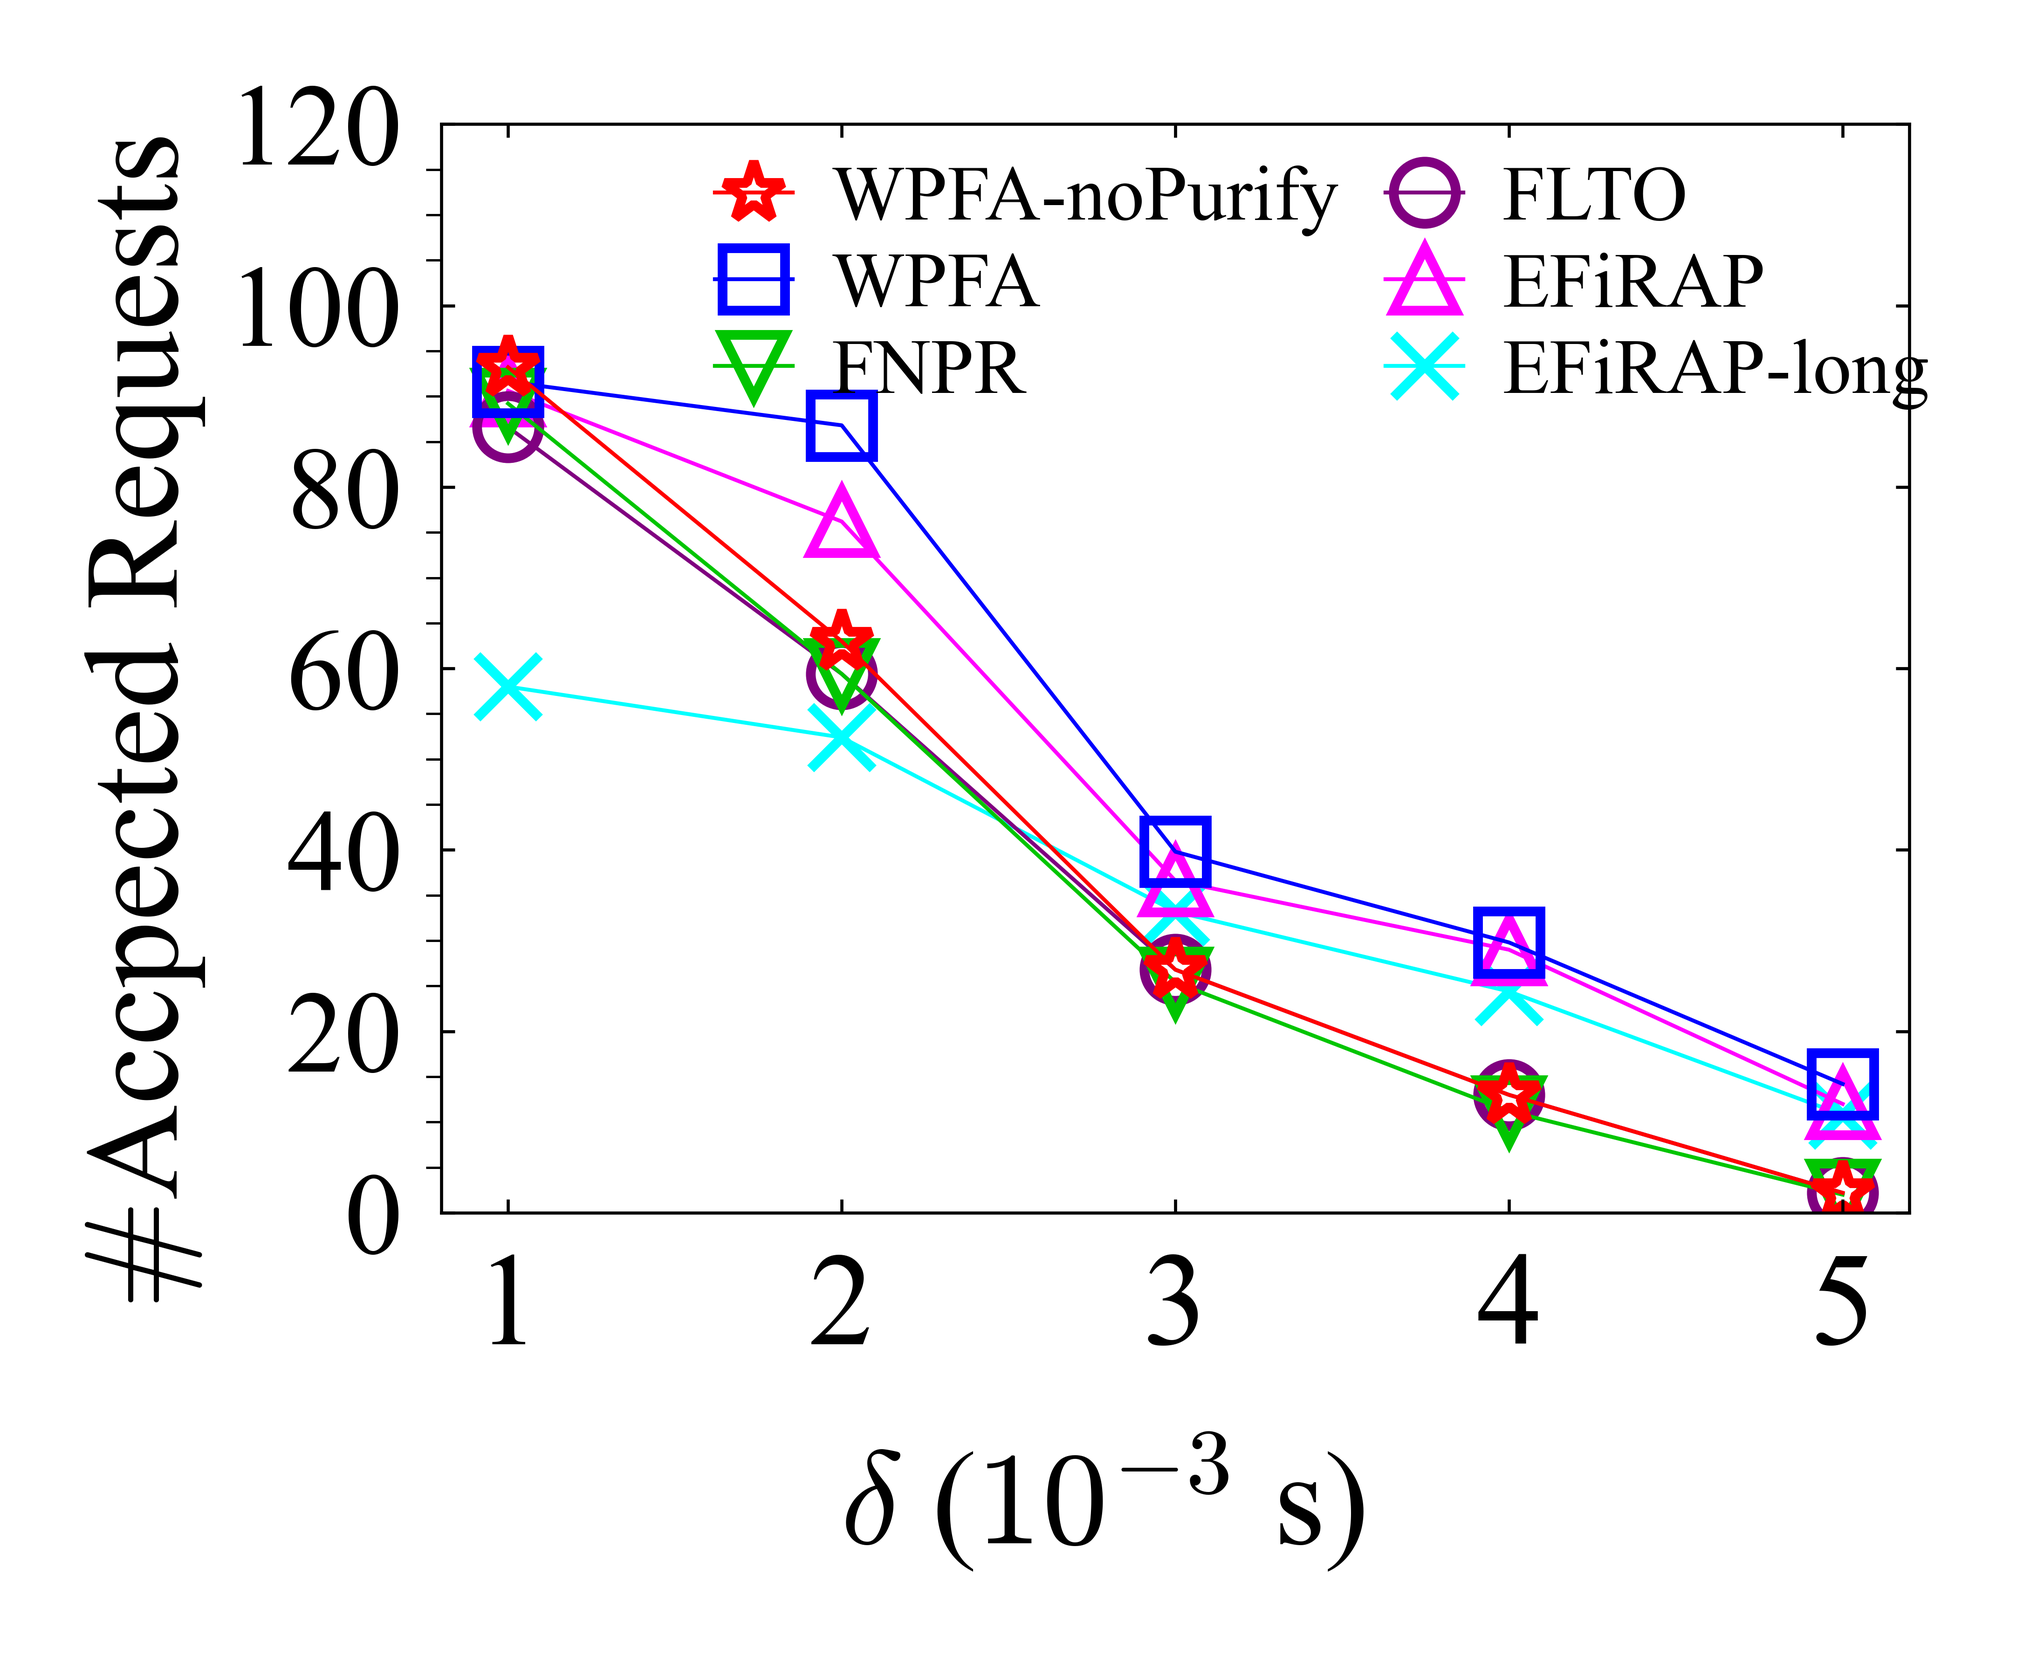
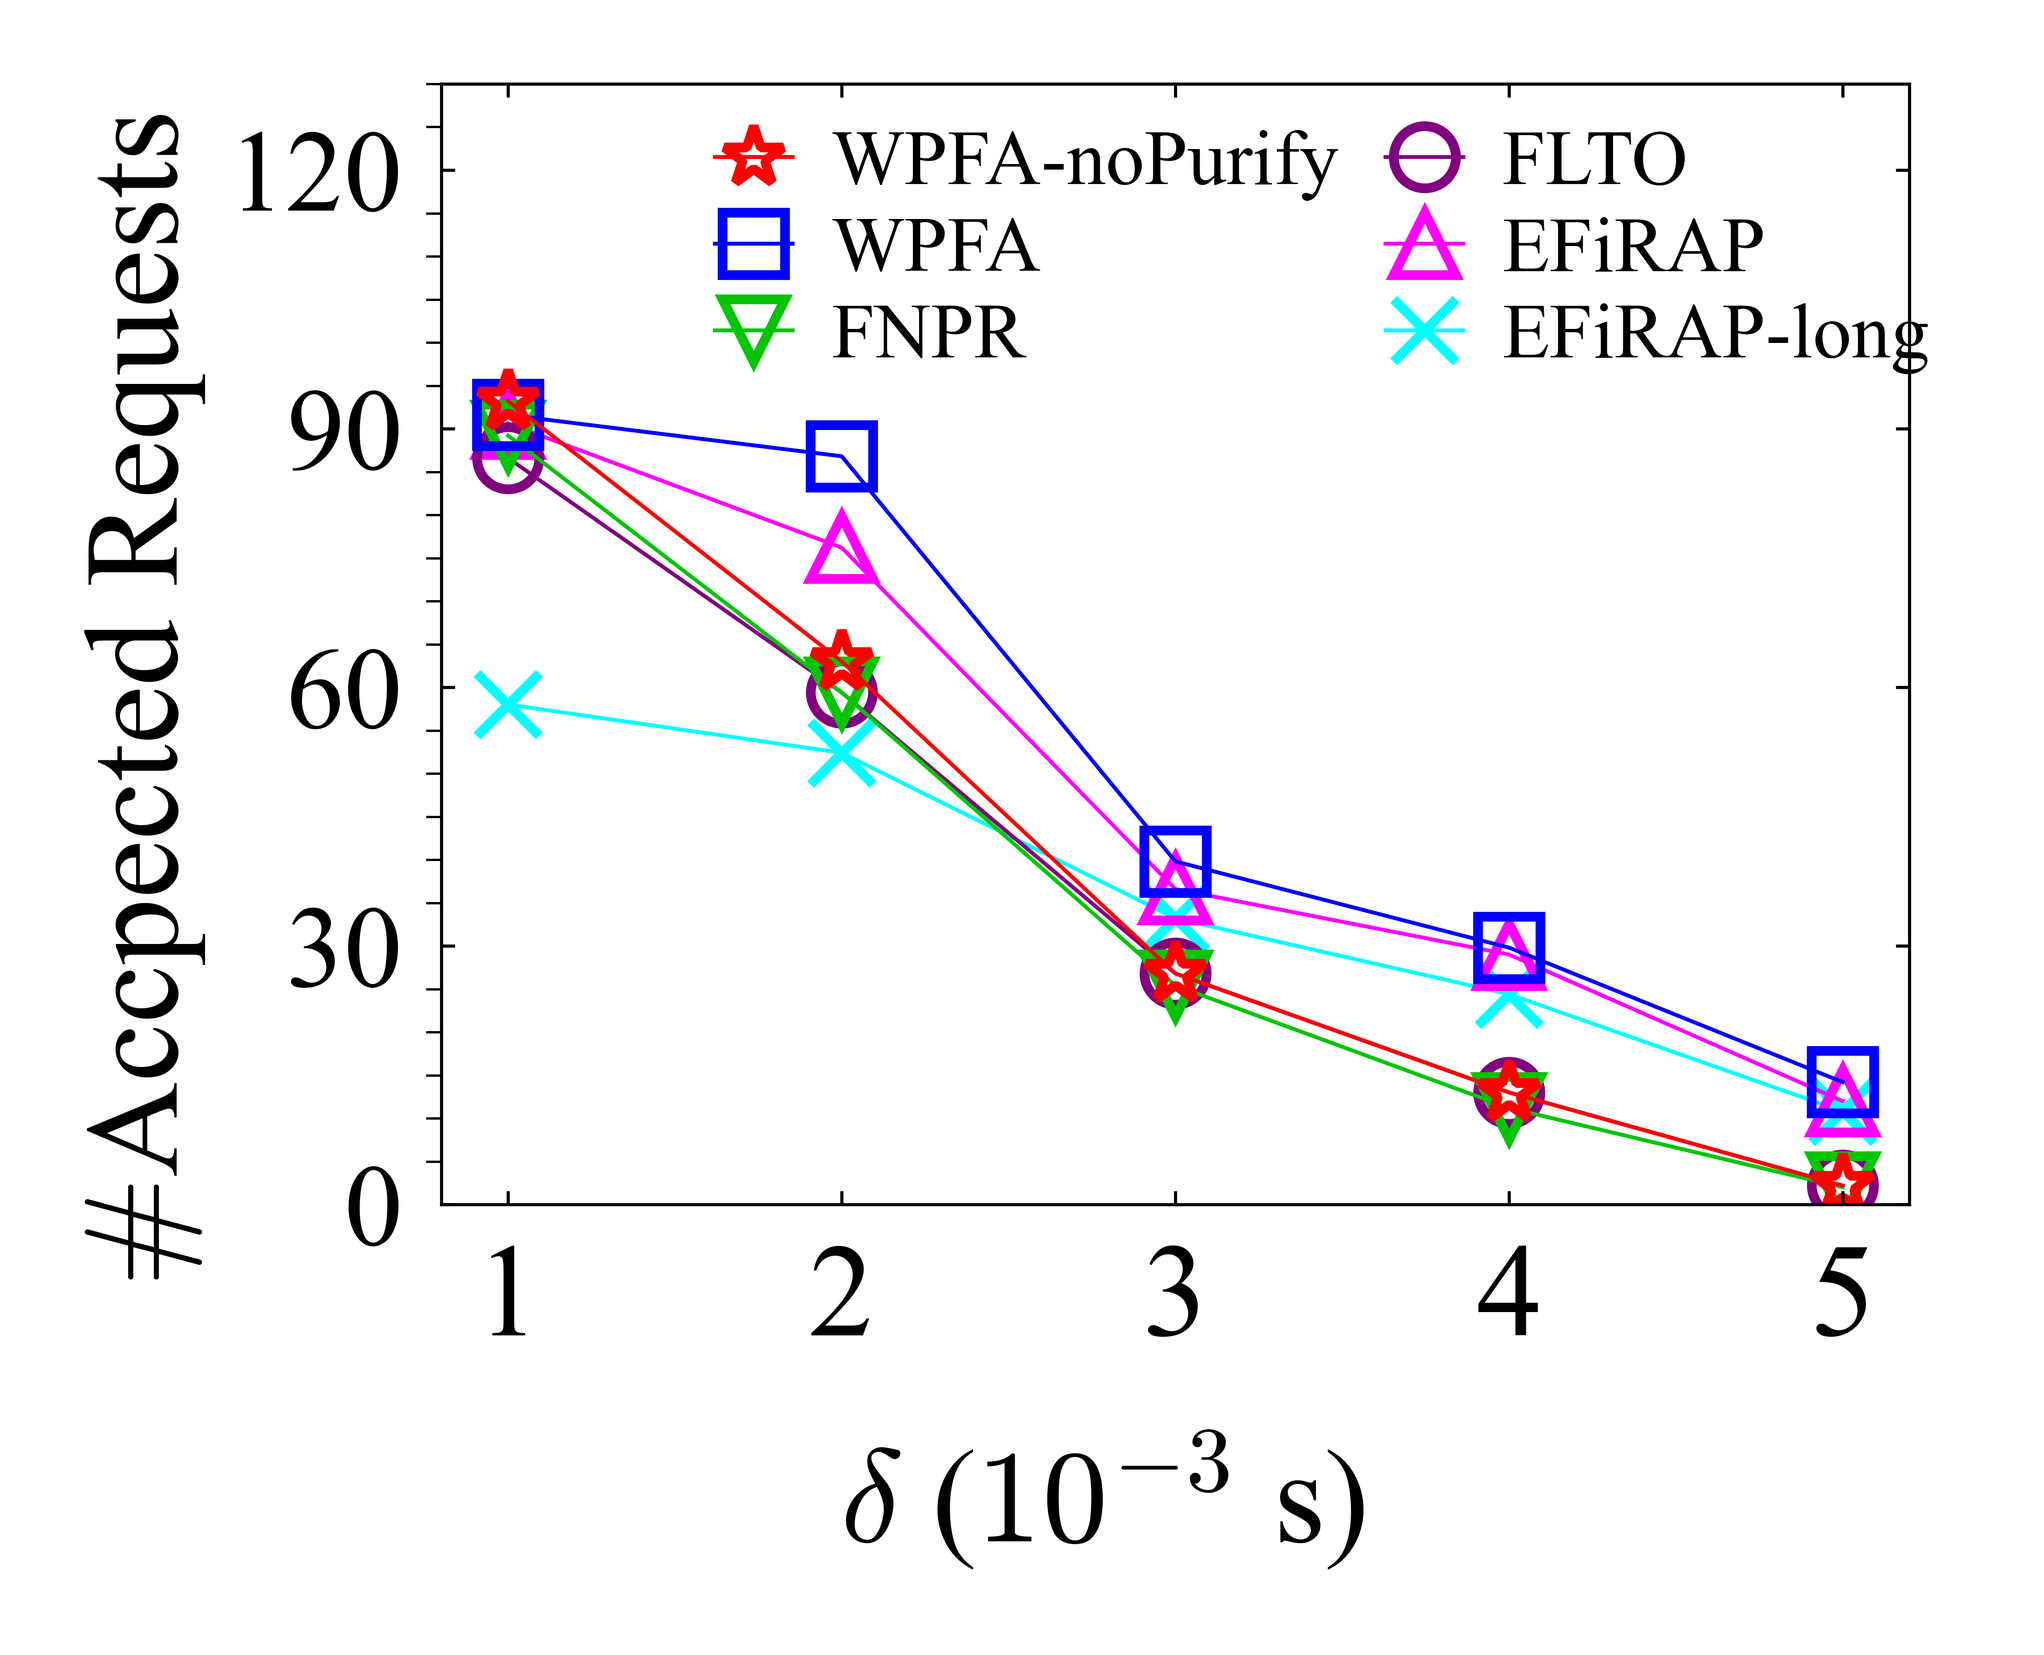
adjust exp

diff --git a/plot/ChartGenerator.py b/plot/ChartGenerator.py
@@ -121,35 +121,40 @@ class ChartGenerator:
     _BBOX_POS = {
         'fidelity_gain':{
             'request_cnt': _LEFT_TOP, 'tao': _RIGHT_TOP, 'time_limit': _LEFT_TOP,
-            'avg_memory': _LEFT_TOP, 'min_fidelity': _LEFT_TOP, 'fidelity_threshold': _RIGHT_TOP,
+            'avg_memory': _LEFT_TOP, 'mem_vary': _LEFT_TOP,
+            'min_fidelity': _LEFT_TOP, 'fidelity_threshold': _RIGHT_TOP,
             'swap_prob': _LEFT_TOP, 'entangle_time': _RIGHT_DOWN, 'entangle_prob': _LEFT_DOWN,
             'hop_count': _RIGHT_TOP,
             'Zmin': _LEFT_TOP, 'time_eta': _LEFT_TOP, 'bucket_eps': _LEFT_TOP
         },
         'succ_request_cnt':{
             'request_cnt': _LEFT_TOP, 'tao': _RIGHT_TOP, 'time_limit': _LEFT_TOP,
-            'avg_memory': _LEFT_TOP, 'min_fidelity': _LEFT_TOP, 'fidelity_threshold': _RIGHT_TOP,
+            'avg_memory': _LEFT_TOP, 'mem_vary': _LEFT_TOP,
+            'min_fidelity': _LEFT_TOP, 'fidelity_threshold': _RIGHT_TOP,
             'swap_prob': _LEFT_TOP, 'entangle_time': _RIGHT_DOWN, 'entangle_prob': _LEFT_DOWN,
             'hop_count': _RIGHT_TOP,
             'Zmin': _LEFT_TOP, 'time_eta': _LEFT_TOP, 'bucket_eps': _LEFT_TOP
         },
         'pure_fidelity':{
             'request_cnt': _LEFT_TOP, 'tao': _RIGHT_TOP, 'time_limit': _LEFT_TOP,
-            'avg_memory': _LEFT_TOP, 'min_fidelity': _LEFT_TOP, 'fidelity_threshold': _RIGHT_TOP,
+            'avg_memory': _LEFT_TOP, 'mem_vary': _LEFT_TOP,
+            'min_fidelity': _LEFT_TOP, 'fidelity_threshold': _RIGHT_TOP,
             'swap_prob': _LEFT_TOP, 'entangle_time': _RIGHT_DOWN, 'entangle_prob': _LEFT_DOWN,
             'Zmin': _LEFT_TOP, 'time_eta': _LEFT_TOP, 'bucket_eps': _LEFT_TOP,
             'hop_count': "auto",
         },
         'actual_req_cnt':{
             'request_cnt': _LEFT_TOP, 'tao': _RIGHT_TOP, 'time_limit': _LEFT_TOP,
-            'avg_memory': _LEFT_TOP, 'min_fidelity': _LEFT_TOP, 'fidelity_threshold': _RIGHT_TOP,
+            'avg_memory': _LEFT_TOP, 'mem_vary': _LEFT_TOP,
+            'min_fidelity': _LEFT_TOP, 'fidelity_threshold': _RIGHT_TOP,
             'swap_prob': _LEFT_TOP, 'entangle_time': _RIGHT_DOWN, 'entangle_prob': _LEFT_DOWN,
             'hop_count': _RIGHT_TOP,
             'Zmin': _LEFT_TOP, 'time_eta': _LEFT_TOP, 'bucket_eps': _LEFT_TOP
         },
         'runtime':{
             'request_cnt': _LEFT_TOP, 'tao': _RIGHT_TOP, 'time_limit': _LEFT_TOP,
-            'avg_memory': _LEFT_TOP, 'min_fidelity': _LEFT_TOP, 'fidelity_threshold': _RIGHT_TOP,
+            'avg_memory': _LEFT_TOP, 'mem_vary': _LEFT_TOP,
+            'min_fidelity': _LEFT_TOP, 'fidelity_threshold': _RIGHT_TOP,
             'swap_prob': _LEFT_TOP, 'entangle_time': _RIGHT_DOWN, 'entangle_prob': _LEFT_DOWN,
             'hop_count': _RIGHT_TOP,
             'Zmin': _LEFT_TOP, 'time_eta': _LEFT_TOP, 'bucket_eps': _LEFT_TOP
@@ -158,16 +163,18 @@ class ChartGenerator:
 
     _Y_INTERVALS = {
         'fidelity_gain':{
-            'request_cnt': (20, 120, 5, 4), 'tao': (0, 85, 5, 4),
-            'time_limit': (20, 80, 5, 4), 'avg_memory': (20, 80, 5, 4),
+            'request_cnt': (20, 120, 5, 4),
+            'tao': (0, 90, 5, 6), 'time_limit': (20, 80, 5, 4),
+            'avg_memory': (20, 80, 5, 4), 'mem_vary': "auto",
             'min_fidelity': (23, 63, 5, 1), 'fidelity_threshold': (0, 95, 5, 6),
             'swap_prob': (10, 80, 5, 4), 'entangle_time': "auto",
             'hop_count':(10,90,5,3),
             'entangle_prob': "auto", 'Zmin': "auto", 'time_eta': "auto", 'bucket_eps': "auto"
         },
         'succ_request_cnt':{
-            'request_cnt': (30, 140, 5, 6), 'tao': (0, 90, 5, 6),
-            'time_limit': (40, 90, 5, 4), 'avg_memory': (30, 90, 5, 6),
+            'request_cnt': (30, 140, 5, 6),
+            'tao': (0, 90, 5, 6), 'time_limit': (40, 90, 5, 4),
+            'avg_memory': (30, 90, 5, 6), 'mem_vary': "auto",
             'min_fidelity': (65, 95, 5, 1), 'fidelity_threshold': (0, 105, 5, 5),
             'swap_prob': (20, 90, 5, 4), 'hop_count':(20,105,5,7),
             'entangle_time': "auto",
@@ -176,14 +183,16 @@ class ChartGenerator:
         'pure_fidelity':{
             'request_cnt': (50, 80, 5, 2), 'tao': (50, 70, 1, 5),
             'time_limit': (45, 70, 1, 5), 'avg_memory': (20, 40, 1, 5),
+            'mem_vary': "auto",
             'min_fidelity': (50, 80, 1, 5), 'fidelity_threshold': (50, 70, 1, 5),
             'swap_prob': "auto", 'entangle_time': "auto", 'entangle_prob': "auto",
             'hop_count': "auto",
             'Zmin': "auto", 'time_eta': "auto", 'bucket_eps': "auto"
         },
         'actual_req_cnt':{
-            'request_cnt': (40,165,5,8), 'tao': (0,120,5,4),
-            'time_limit': (50,110,5,5), 'avg_memory': (35,115,5,7),
+            'request_cnt': (40,165,5,8),
+            'tao': (0,130,5,6), 'time_limit': (50,110,5,5),
+            'avg_memory': (35,115,5,7), 'mem_vary': "auto",
             'min_fidelity': "auto", 'fidelity_threshold': (0,125,5,5),
             'swap_prob': (50,100,5,5), 'hop_count': "auto",
             'entangle_time': "auto",
@@ -191,7 +200,8 @@ class ChartGenerator:
         },
         'runtime':{
             'request_cnt': (0,40,5,2), 'tao': "auto", 'time_limit': "auto",
-            'avg_memory': "auto", 'min_fidelity': "auto", 'fidelity_threshold': "auto",
+            'avg_memory': "auto", 'mem_vary': "auto",
+            'min_fidelity': "auto", 'fidelity_threshold': "auto",
             'swap_prob': "auto", 'hop_count': "auto", 'entangle_time': "auto",
             'entangle_prob': "auto", 'Zmin': "auto", 'time_eta': "auto", 'bucket_eps': "auto"
         },
@@ -199,7 +209,8 @@ class ChartGenerator:
 
     _AXIS_NAME = {
         "request_cnt": r"$\#$Requests", "time_limit": "$| T |$",
-        "avg_memory": "Average Memory Limit", "tao": r"$\it{\delta}$",
+        "avg_memory": "Average Memory Limit", "mem_vary": "Memory Variation",
+        "tao": r"$\it{\delta}$",
         "swap_prob": "Swapping Probability", "fidelity_gain": "Exp. Werner Param. Sum",
         "succ_request_cnt": r"$\#$Exp. Accepted Requests", "pure_fidelity": "Average Final Fidelity",
         "actual_req_cnt": r"$\#$Accpected Requests",
@@ -315,6 +326,15 @@ class ChartGenerator:
             x_labels = [f"{v:g}" if isinstance(v, float) else str(v) for v in tmp]
         else:
             x_labels = [str(v) for v in x_vals]
+
+        if x_key == "mem_vary":
+            varied_labels = []
+            for value in x_vals:
+                try:
+                    varied_labels.append(rf"$\pm {float(value):g}$")
+                except ValueError:
+                    varied_labels.append(str(value))
+            x_labels = varied_labels
 
         # Y 軸處理
         raw_max = max(max(y[i]) for i in visible_indices)
@@ -497,7 +517,7 @@ if __name__ == "__main__":
 
     Xlabels = [
         "request_cnt", "time_limit", "tao",
-        "avg_memory", "fidelity_threshold", "min_fidelity", "hop_count",
+        "avg_memory", "mem_vary", "fidelity_threshold", "min_fidelity", "hop_count",
         "swap_prob",
     ]
     Ylabels = [

diff --git a/src/main.cpp b/src/main.cpp
@@ -399,6 +399,9 @@ int main(){
     // A memory budget of 10 creates measurable contention without making the
     // experiment overwhelmingly capacity-limited.
     default_setting["avg_memory"] = 10;
+    // Node memory is avg_memory plus a discrete-uniform offset in
+    // [-mem_vary, +mem_vary].  A value of 1 preserves the old distribution.
+    default_setting["mem_vary"] = 1;
     default_setting["tao"] = 0.002;
     default_setting["path_length"] = 3;
     // With threshold 0.8, max_fidelity=0.99 leaves a controlled set of
@@ -432,6 +435,7 @@ int main(){
     change_parameter["num_nodes"] = {30, 40, 50, 60, 70};
     change_parameter["min_fidelity"] = {0.6, 0.7, 0.8, 0.9, 0.95};
     change_parameter["avg_memory"] = {4, 6, 8, 10, 12, 16, 20};
+    change_parameter["mem_vary"] = {1, 2, 3, 4, 5};
     change_parameter["tao"] = {0.001,0.002,0.003,0.004,0.005};
     change_parameter["path_length"] = {3, 6, 9, 12, 15};
     change_parameter["swap_prob"] = {0.6, 0.7, 0.8, 0.9,0.95};
@@ -470,7 +474,8 @@ int main(){
         const unsigned int experiment_seed =
             (unsigned int)default_setting["request_seed"] + r;
         string parameter = to_string(num_nodes) + " "
-                         + to_string(experiment_seed);
+                         + to_string(experiment_seed) + " "
+                         + to_string((int)default_setting["mem_vary"]);
         cerr << (command + filename + " " + parameter) << endl;
         if(system((command + filename + " " + parameter).c_str()) != 0){
             cerr<<"error:\tsystem proccess python error"<<endl;
@@ -531,7 +536,7 @@ int main(){
 
     // vector<string> X_names = {"time_limit", "request_cnt", "num_nodes", "avg_memory", "tao"};
     //vector<string> X_names = {"request_cnt"};
-    vector<string> X_names = {/*  "request_cnt", "time_limit", */ "tao"/* ,  "fidelity_threshold" , "avg_memory","hop_count","swap_prob" */ };
+    vector<string> X_names = {/*  "request_cnt", "time_limit", */ "tao", "mem_vary"/* ,  "fidelity_threshold" , "avg_memory","hop_count","swap_prob" */ };
     // Set EXPERIMENT_X_NAME (for example, EXPERIMENT_X_NAME=tao) to rerun a
     // single sweep without truncating or recomputing the other result files.
     if(const char* selected_x = std::getenv("EXPERIMENT_X_NAME")) {
@@ -614,6 +619,24 @@ int main(){
                     cerr << "[CKPT] === ROUND " << r << " START | X=" << X_name << " val=" << change_value << " ===" << endl;
                     DBG_mem("round_start");
                     string filename = file_path + "input/round_" + to_string(r) + ".input";
+                    if(X_name == "mem_vary") {
+                        const int mem_vary = (int)input_parameter["mem_vary"];
+                        const int num_nodes = (int)default_setting["num_nodes"];
+                        const unsigned int experiment_seed =
+                            (unsigned int)default_setting["request_seed"] + r;
+                        filename = file_path + "input/round_" + to_string(r)
+                                 + "_mem_vary_" + to_string(mem_vary) + ".input";
+                        string command = "python3 graph_generator.py ";
+                        string parameter = to_string(num_nodes) + " "
+                                         + to_string(experiment_seed) + " "
+                                         + to_string(mem_vary);
+                        cerr << (command + filename + " " + parameter) << endl;
+                        if(system((command + filename + " " + parameter).c_str()) != 0) {
+                            throw runtime_error(
+                                "graph_generator.py failed for mem_vary="
+                                + to_string(mem_vary));
+                        }
+                    }
                     ofstream ofs;
                     ofs.open(file_path + "log/" + path_method->get_name() + "_" + X_name + "_in_" + to_string(change_value) + "_Round_" + to_string(r) + ".log");
 

diff --git a/src/graph_generator.py b/src/graph_generator.py
@@ -54,6 +54,10 @@ if len(sys.argv) <= 2:
 filename = sys.argv[1]
 num_of_node = int(sys.argv[2])
 experiment_seed = int(sys.argv[3]) if len(sys.argv) >= 4 else None
+mem_vary = int(sys.argv[4]) if len(sys.argv) >= 5 else 1
+if mem_vary < 0:
+    print("mem_vary must be non-negative", file=sys.stderr)
+    sys.exit(2)
 if experiment_seed is not None:
     random.seed(experiment_seed)
     numpy.random.seed(experiment_seed % (2 ** 32))
@@ -70,6 +74,7 @@ print("======== generating graph ========", file=sys.stderr)
 print("filename =", filename, file=sys.stderr)
 print("num_of_node =", num_of_node, file=sys.stderr)
 print("seed =", experiment_seed, file=sys.stderr)
+print("memory_offset_range =", f"[-{mem_vary}, +{mem_vary}]", file=sys.stderr)
 # print("min_fidelity =", min_fidelity, ", max_fidelity =", max_fidelity, file=sys.stderr)
 # print("min_memory_cnt =", min_memory_cnt, ", max_memory_cnt =", max_memory_cnt, file=sys.stderr)
 
@@ -107,15 +112,30 @@ while True:
         print("topo is not connected", file=sys.stderr)
 
 path = filename
+
+# Keep topology and link fidelity identical across the mem_vary sweep.  The
+# historical generator drew N values from randint(-1, 1) before drawing link
+# fidelities.  Advancing a dedicated fidelity RNG by that same baseline
+# sequence preserves all existing mem_vary=1 inputs while allowing the memory
+# RNG to use a different range without perturbing any link value.
+distribution_seed = (experiment_seed if experiment_seed is not None
+                     else random.SystemRandom().randrange(2 ** 63))
+memory_rng = random.Random(distribution_seed)
+fidelity_rng = random.Random(distribution_seed)
+for _ in range(num_of_node):
+    fidelity_rng.randint(-1, 1)
+
 with open(path, 'w') as f:
     positions = nx.get_node_attributes(G, 'pos')
     # write node
     print(num_of_node, file=f)
+    memory_offsets = []
     for n in G.nodes():
         (x, y) = positions[n]
         pos_x = str(x*RANGE)
         pos_y = str(y*RANGE)
-        num_of_memory = random.randint(-1, 1)
+        num_of_memory = memory_rng.randint(-mem_vary, mem_vary)
+        memory_offsets.append(num_of_memory)
         print(num_of_memory, file = f)
     
     # write edge
@@ -142,7 +162,7 @@ with open(path, 'w') as f:
             #    ratio = 0.55
             # 70% link 在 sweet spot (需 purify), 30% 高 fid (非 purify 也能過)
             # F_init = ratio * 0.15 + 0.80, 最低 F_init >= 0.80 (ratio >= 0)
-            ratio = random.uniform(0.75, 0.99)
+            ratio = fidelity_rng.uniform(0.75, 0.99)
             if ratio > 0.99:
                 ratio = 0.98
             if ratio < 0.75:
@@ -154,6 +174,9 @@ with open(path, 'w') as f:
 
 print("num_of_edge =", num_of_edge, file=sys.stderr)
 print("avg_edge_len =", avg_l, file=sys.stderr)
+print("memory_offset_min =", min(memory_offsets), file=sys.stderr)
+print("memory_offset_max =", max(memory_offsets), file=sys.stderr)
+print("memory_offset_mean =", sum(memory_offsets) / len(memory_offsets), file=sys.stderr)
 print("\n======== graph generate finished ! ========", file=sys.stderr)
 
 
